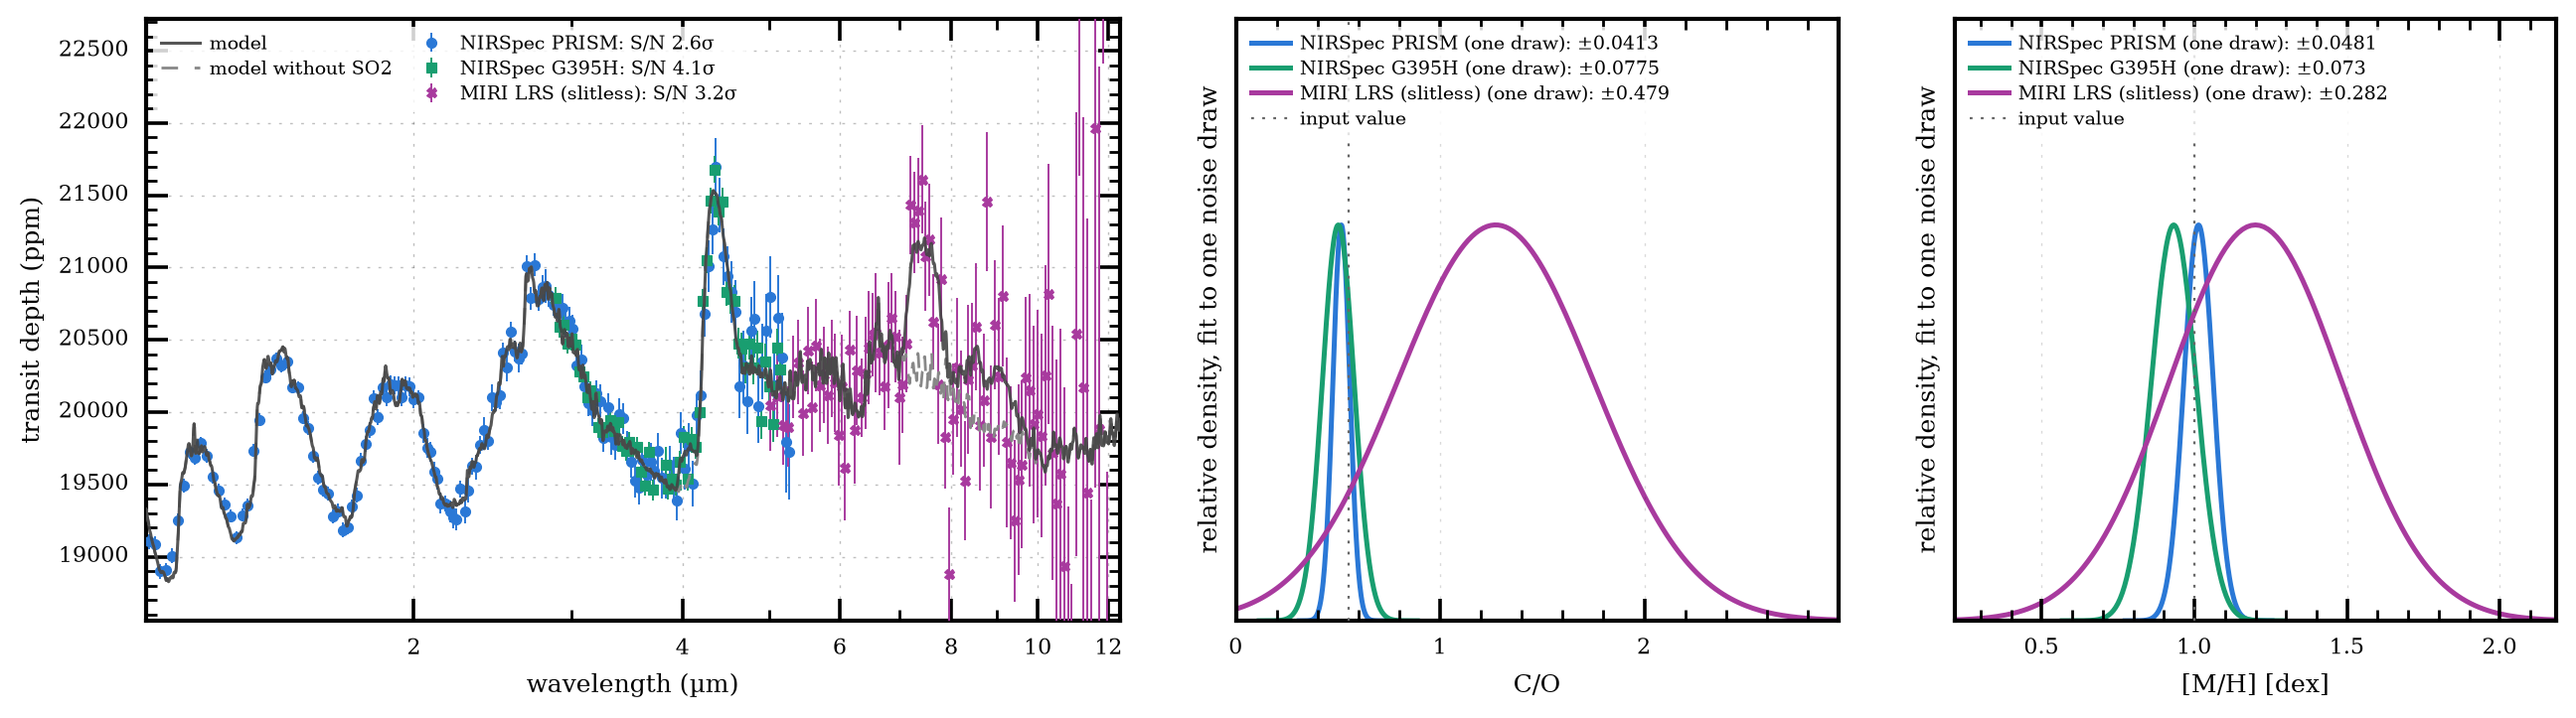
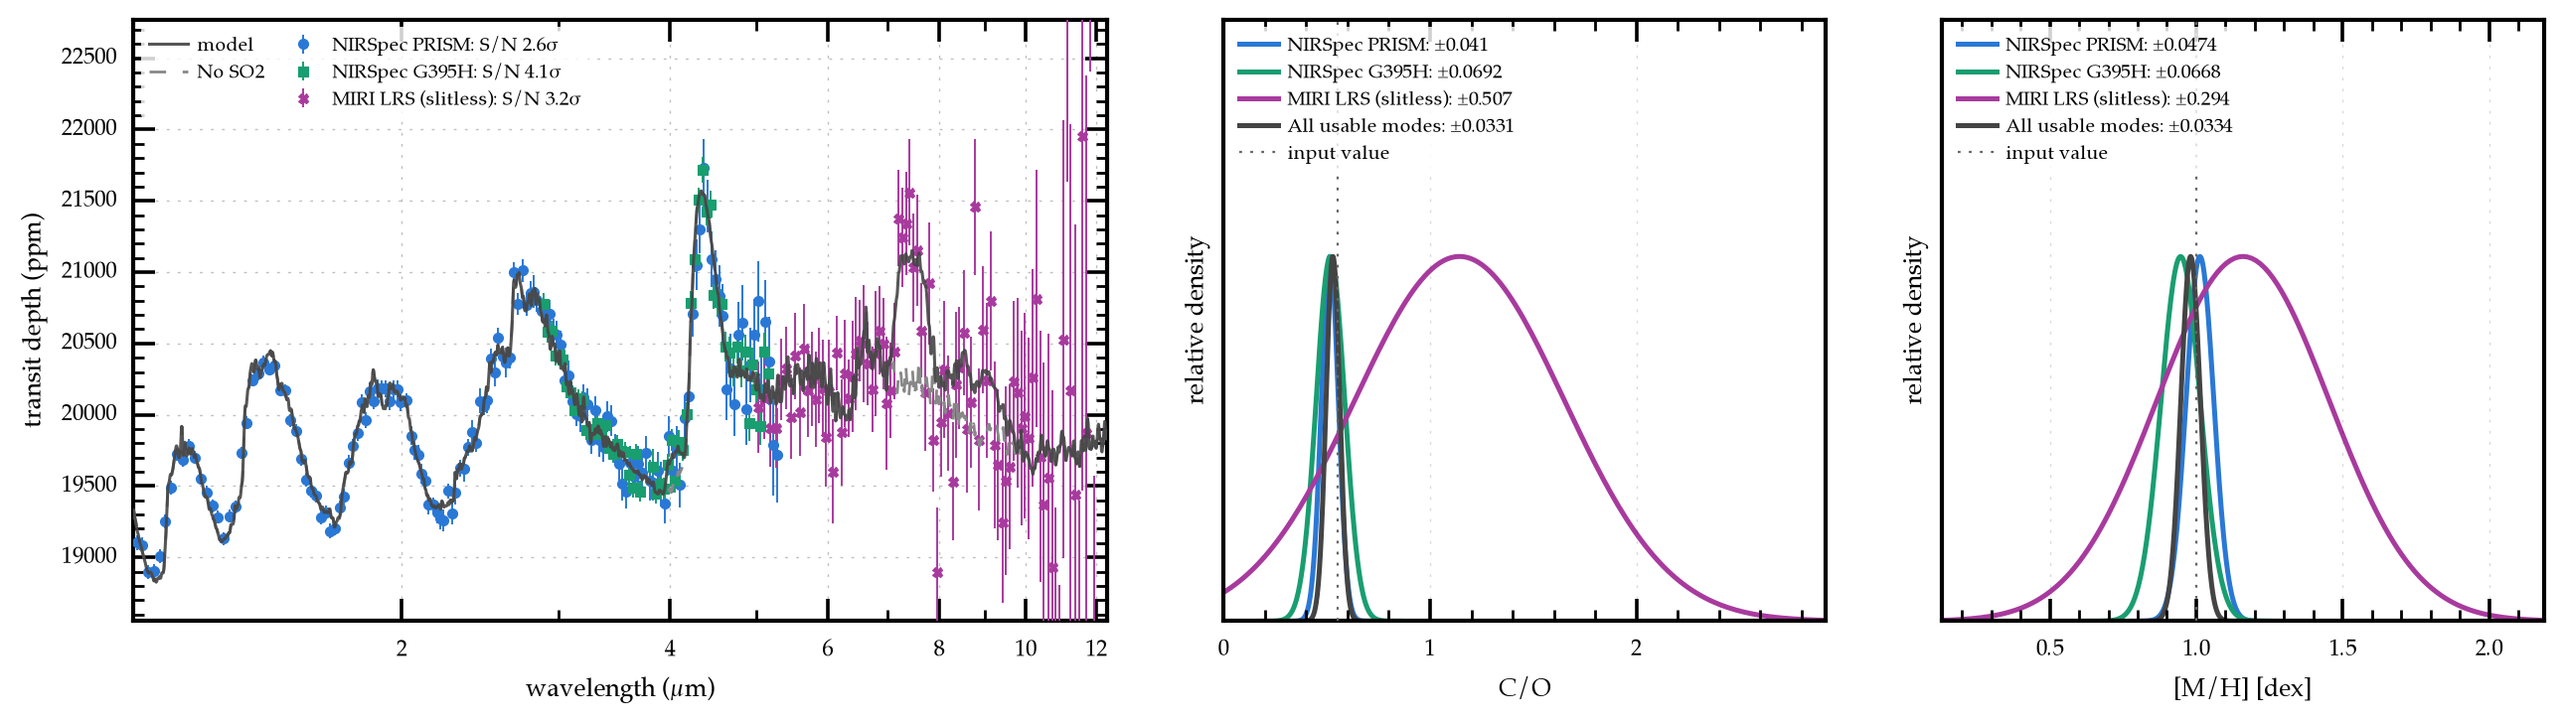
Figures: parity plots in the shared serif style; README example regenerated; 'No SO2' legend label

diff --git a/tests/parity/scripts/make_parity_plots.py b/tests/parity/scripts/make_parity_plots.py
@@ -23,9 +23,9 @@ Layout under tests/parity/: scripts/ (this + the harness), outputs/ (the
 committed parity_summary.json + REPORT.md and the git-ignored raw run JSON),
 figs/ (the committed PNG figures this writes).
 
-Design: validated categorical palette (dataviz skill). Overlays use blue =
-this tool, orange = PandExo; per-mode panels color by mode in the fixed
-palette order. One axis per panel, thin marks, recessive grid, PNG @ 200 dpi.
+Style: the project's serif figure style (Okabe-Ito cycle, square panels,
+axis labels and legend only). Two-code overlays are black under, red dashed
+on top; the timing panels colour by instrument and mark by star.
 """
 import json
 import sys
@@ -46,13 +46,10 @@ import parity_gate as pg                       # noqa: E402
 
 from jwst_tool import instruments as _ins       # noqa: E402
 
-# --- validated categorical palette (light mode) ------------------------------
-TOOL = "#2a78d6"       # this tool (blue, slot 1)
-PANDEXO = "#eb6834"    # PandExo (orange, slot 8) -- CVD-safe against blue
-SURFACE = "#ffffff"
-INK = "#0b0b0b"
-INK2 = "#52514e"
-GRID = "#e6e5e2"
+CYC = ["#0072B2", "#D55E00", "#009E73", "#E69F00", "#CC79A7", "#56B4E9"]
+INK = "#2b2b2b"        # the reference side of a two-code comparison
+RED = "#CC3311"        # the model side
+MS = 3.5
 
 # The plotted mode set is the GATE's declared experiment, never a local copy.
 # A hand-maintained list here silently drops modes from the committed
@@ -61,7 +58,9 @@ GRID = "#e6e5e2"
 # registry, so deriving from it inherits that guard. Colours and short labels
 # likewise come from the one validated registry palette.
 MODES = list(pg.MODE_KEYS)
-MCOL = {k: _ins.MODE_COLOR[k] for k in MODES}
+INSTRUMENT_LABEL = {"nirspec": "NIRSpec", "niriss": "NIRISS",
+                    "nircam": "NIRCam", "miri": "MIRI"}
+INSTRUMENT_COLOR = {ins: CYC[i] for i, ins in enumerate(INSTRUMENT_LABEL)}
 LABEL = {k: (_ins.MODES[k]["label"]
              .replace("NIRSpec ", "").replace("NIRCam ", "")
              .replace("NIRISS ", "").replace(" (ord 1)", "")
@@ -75,19 +74,22 @@ STAR_LABEL = {"w39_like": f"W39-like (Ks {pg.STARS['w39_like']['ks_mag']:.1f})",
 SAT_LIMIT = pg.SAT_LIMIT   # a mode above this is saturated (unusable)
 
 plt.rcParams.update({
-    "figure.facecolor": SURFACE, "axes.facecolor": SURFACE,
-    "savefig.facecolor": SURFACE, "font.size": 10,
-    "axes.edgecolor": INK2, "axes.linewidth": 0.8,
-    "text.color": INK, "axes.labelcolor": INK, "axes.titlecolor": INK,
-    "xtick.color": INK2, "ytick.color": INK2,
-    "axes.grid": True, "grid.color": GRID, "grid.linewidth": 0.8,
-    "axes.axisbelow": True, "figure.dpi": 200,
+    "font.family": "serif",
+    "font.serif": ["Times New Roman", "Palatino", "DejaVu Serif", "serif"],
+    "font.size": 12, "axes.labelsize": "large", "axes.linewidth": 1.5,
+    "axes.xmargin": 0, "axes.ymargin": 0.1, "axes.axisbelow": False,
+    "axes.formatter.use_mathtext": True, "mathtext.fontset": "stix",
+    "axes.prop_cycle": plt.cycler("color", CYC),
+    "xtick.direction": "in", "xtick.top": True, "xtick.minor.visible": True,
+    "xtick.labelsize": "large", "xtick.major.size": 8, "xtick.major.width": 1.3,
+    "xtick.minor.size": 4, "xtick.minor.width": 1, "xtick.major.pad": 6,
+    "ytick.direction": "in", "ytick.right": True, "ytick.minor.visible": True,
+    "ytick.labelsize": "large", "ytick.major.size": 8, "ytick.major.width": 1.3,
+    "ytick.minor.size": 4, "ytick.minor.width": 1, "ytick.major.pad": 6,
+    "axes.grid": False, "legend.frameon": False, "legend.fontsize": 10,
+    "legend.handlelength": 1.5, "legend.labelspacing": 0.3,
+    "savefig.bbox": "tight", "savefig.dpi": 300,
 })
-
-
-def _style(ax):
-    ax.spines["top"].set_visible(False)
-    ax.spines["right"].set_visible(False)
 
 
 def load_summary():
@@ -122,65 +124,40 @@ def ok_rows(summary, star):
 # Configuration & timing parity: ours vs PandExo on the 1:1 line
 def fig_config_parity(summary, release):
     quantities = [
-        ("ngroup_pandexo", "ngroup_ours", "groups / integration"),
-        ("t_int_pandexo_s", "t_int_ours_s", "integration time"),
+        ("ngroup_pandexo", "ngroup_ours", "groups per integration"),
+        ("t_int_pandexo_s", "t_int_ours_s", "integration time (s)"),
         ("n_int_pandexo_in", "n_int_ours", "integrations in transit"),
     ]
-    unit = {"integration time": " (s)"}
-    fig, axes = plt.subplots(1, 3, figsize=(11.5, 5.7))
-    for ax, (kx, ky, title) in zip(axes, quantities):
+    fig, axes = plt.subplots(1, 3, figsize=(16, 5.2), constrained_layout=True)
+    for ax, (kx, ky, name) in zip(axes, quantities):
         xs, ys = [], []
         for star in summary["stars"]:
             rows = ok_rows(summary, star)
             for key in MODES:
-                if key not in rows:
-                    continue
-                # skip saturated (unusable) configs entirely -- only VALID
-                # configurations are a meaningful parity comparison. PRISM
-                # saturates on the bright stars and is dropped there; it is
-                # shown from the faint star, where it is usable.
-                if rows[key].get("sat_frac_ours", 0.0) > SAT_LIMIT:
+                # saturated configurations are unusable, not a parity case
+                if key not in rows or rows[key].get("sat_frac_ours", 0.0) > SAT_LIMIT:
                     continue
                 x, y = rows[key][kx], rows[key][ky]
                 xs.append(x)
                 ys.append(y)
-                ax.scatter(x, y, s=46, marker=STAR_MARK[star],
-                           color=MCOL[key], edgecolor="white", linewidth=0.7,
-                           zorder=3)
-        lo = min(xs + ys) * 0.7
-        hi = max(xs + ys) * 1.4
-        ax.plot([lo, hi], [lo, hi], color=INK2, lw=1.0, ls="--", zorder=1)
+                ax.plot(x, y, STAR_MARK[star], ms=MS, ls="", clip_on=False,
+                        color=INSTRUMENT_COLOR[_ins.MODES[key]["instrument"]],
+                        zorder=3)
+        lo, hi = min(xs + ys), max(xs + ys)
+        ax.plot([lo, hi], [lo, hi], color=INK, lw=1.0, ls="--", zorder=1)
         ax.set_xscale("log")
         ax.set_yscale("log")
         ax.set_xlim(lo, hi)
         ax.set_ylim(lo, hi)
-        ax.set_aspect("equal")
-        u = unit.get(title, "")
-        ax.set_xlabel(f"PandExo  {title}{u}")
-        ax.set_ylabel(f"this tool  {title}{u}")
-        ax.set_title(title)
-        _style(ax)
-    mode_handles = [Line2D([], [], marker="o", ls="", color=MCOL[m],
-                           markeredgecolor="white", label=LABEL[m])
-                    for m in MODES]
-    star_handles = [Line2D([], [], marker=STAR_MARK[s], ls="", color=INK2,
-                           markeredgecolor="white", label=STAR_LABEL[s])
-                    for s in STAR_MARK]
-    line_handle = [Line2D([], [], color=INK2, ls="--", label="1:1 parity")]
-    fig.legend(handles=mode_handles + star_handles + line_handle,
-               loc="lower center", ncol=6, frameon=False, fontsize=8.5,
-               bbox_to_anchor=(0.5, 0.01))
-    fig.suptitle("Configuration & timing parity: this tool vs pinned PandExo "
-                 f"on the same Pandeia {release} engine", fontsize=11.5,
-                 y=0.99)
-    fig.text(0.5, 0.91, "Unsaturated configurations only (saturated rows are "
-             "excluded). The submitted configuration is pinned identically on "
-             "both sides; wavelength grids match pixel-for-pixel at rtol "
-             "1e-9; groups are independently optimized against the same 80% "
-             "saturation target (integer rounding is the residual); "
-             "integration time and count follow.", ha="center", fontsize=8.2,
-             color=INK2, wrap=True)
-    fig.tight_layout(rect=[0, 0.15, 1, 0.87])
+        ax.set_box_aspect(1)
+        ax.set_xlabel(f"PandExo {name}")
+        ax.set_ylabel(f"this tool {name}")
+    handles = ([Line2D([], [], marker="o", ls="", ms=MS, color=c, label=INSTRUMENT_LABEL[k])
+                for k, c in INSTRUMENT_COLOR.items()]
+               + [Line2D([], [], marker=STAR_MARK[st], ls="", ms=MS, color=INK,
+                         label=STAR_LABEL[st]) for st in STAR_MARK]
+               + [Line2D([], [], color=INK, ls="--", lw=1.0, label="1:1")])
+    axes[0].legend(handles=handles, loc="upper left")
     out = FIGS / "parity_config_timing.png"
     fig.savefig(out, bbox_inches="tight")
     plt.close(fig)
@@ -256,53 +233,16 @@ def fig_extracted_flux(summary, out_root, mode="nirspec_g395h",
     idx = np.clip(np.searchsorted(wl_o, wl_p), 0, wl_o.size - 1)
     ex = np.abs(wl_o[idx] - wl_p) < 1e-9 * np.maximum(wl_p, 1e-9)
     io, ip = idx[ex], np.where(ex)[0]
-    wl_pair = wl_o[io]
     ratio = flux_o[io] / erate[ip]
     med = float(np.median(ratio))
-    # binned running median: the real systematic agreement, with the
-    # per-pixel photon-level extraction jitter averaged out (the tool never
-    # uses per-pixel flux -- it integrates over bins)
-    nb = 24
-    bedges = np.linspace(wl_pair.min(), wl_pair.max(), nb + 1)
-    bc = 0.5 * (bedges[:-1] + bedges[1:])
-    bmed = np.array([
-        np.median(ratio[(wl_pair >= bedges[k]) & (wl_pair < bedges[k + 1])])
-        if ((wl_pair >= bedges[k]) & (wl_pair < bedges[k + 1])).any() else np.nan
-        for k in range(nb)])
-
-    fig, axes = plt.subplots(2, 1, figsize=(8.6, 5.6), sharex=True,
-                             gridspec_kw={"height_ratios": [3, 1.15]})
-    ax = axes[0]
-    ax.plot(wl_p, erate, color=PANDEXO, lw=1.4, label="PandExo", zorder=2)
-    ax.plot(wl_o, flux_o, color=TOOL, lw=1.4, ls=(0, (4, 2)),
-            label="this tool", zorder=3)
-    ax.set_ylabel("extracted stellar\ncount rate  (e$^-$/s)")
-    ax.set_title(f"Extracted stellar flux parity, {LABEL[mode]} on a "
-                 f"{STAR_LABEL[star]} star\n(the ETC engine product, "
-                 f"Pandeia {release} both sides; grids matched at rtol 1e-9)")
-    ax.legend(frameon=False, fontsize=9.5)
-    # both sides receive the identical PandExo-resampled spectrum, and after
-    # the quantum-yield unfold the two extractions agree per pixel, so the
-    # curves are the same line -- never label a residual here as a stellar-
-    # spectrum difference
-    ax.annotate("both sides receive the identical resampled stellar\n"
-                "spectrum; after the quantum-yield unfold the two\n"
-                f"extractions agree per pixel (median ratio {med:.4f})",
-                xy=(0.985, 0.97), xycoords="axes fraction", ha="right",
-                va="top", fontsize=7.6, color=INK2)
-    _style(ax)
-    axr = axes[1]
-    axr.plot(wl_pair, ratio, color="#c3c2bd", lw=0.6, alpha=0.9, zorder=2,
-             label="per-pixel")
-    axr.plot(bc, bmed, color=TOOL, lw=2.0, zorder=3,
-             label=f"binned median = {med:.4f} (the systematic)")
-    axr.axhline(1.0, color=PANDEXO, lw=1.0, ls=":", zorder=1)
-    axr.set_ylim(0.9, 1.1)
-    axr.set_ylabel("ratio\ntool / PandExo")
-    axr.set_xlabel("wavelength (micron)")
-    axr.legend(frameon=False, fontsize=8, loc="lower left", ncol=1)
-    _style(axr)
-    fig.tight_layout()
+    fig, ax = plt.subplots(figsize=(6.5, 6.5))
+    ax.plot(wl_p, erate, color=INK, lw=1.5, solid_capstyle="round",
+            label=f"PandExo, {LABEL[mode]}, {STAR_LABEL[star]}")
+    ax.plot(wl_o, flux_o, color=RED, lw=0.7, ls="--",
+            label=f"this tool (median ratio {med:.4f})")
+    ax.set_xlabel("wavelength ($\\mu$m)")
+    ax.set_ylabel("extracted stellar count rate (e$^-$ s$^{-1}$)")
+    ax.legend(loc="upper right")
     out = FIGS / "parity_extracted_flux.png"
     fig.savefig(out, bbox_inches="tight")
     plt.close(fig)

diff --git a/src/jwst_tool/app.py b/src/jwst_tool/app.py
@@ -2974,7 +2974,7 @@ if d_wo_s is not None:
     # detect goal: the same without-target comparison curve the old
     # standalone spectrum carried (smoothed identically for display)
     _sum_spectrum["depth2_ppm"] = _display_smooth(d_wo_s)
-    _sum_spectrum["depth2_label"] = f"{meta['target']} removed from the opacity"
+    _sum_spectrum["depth2_label"] = f"No {meta['target']}"
 
 _sum_foot = None
 
